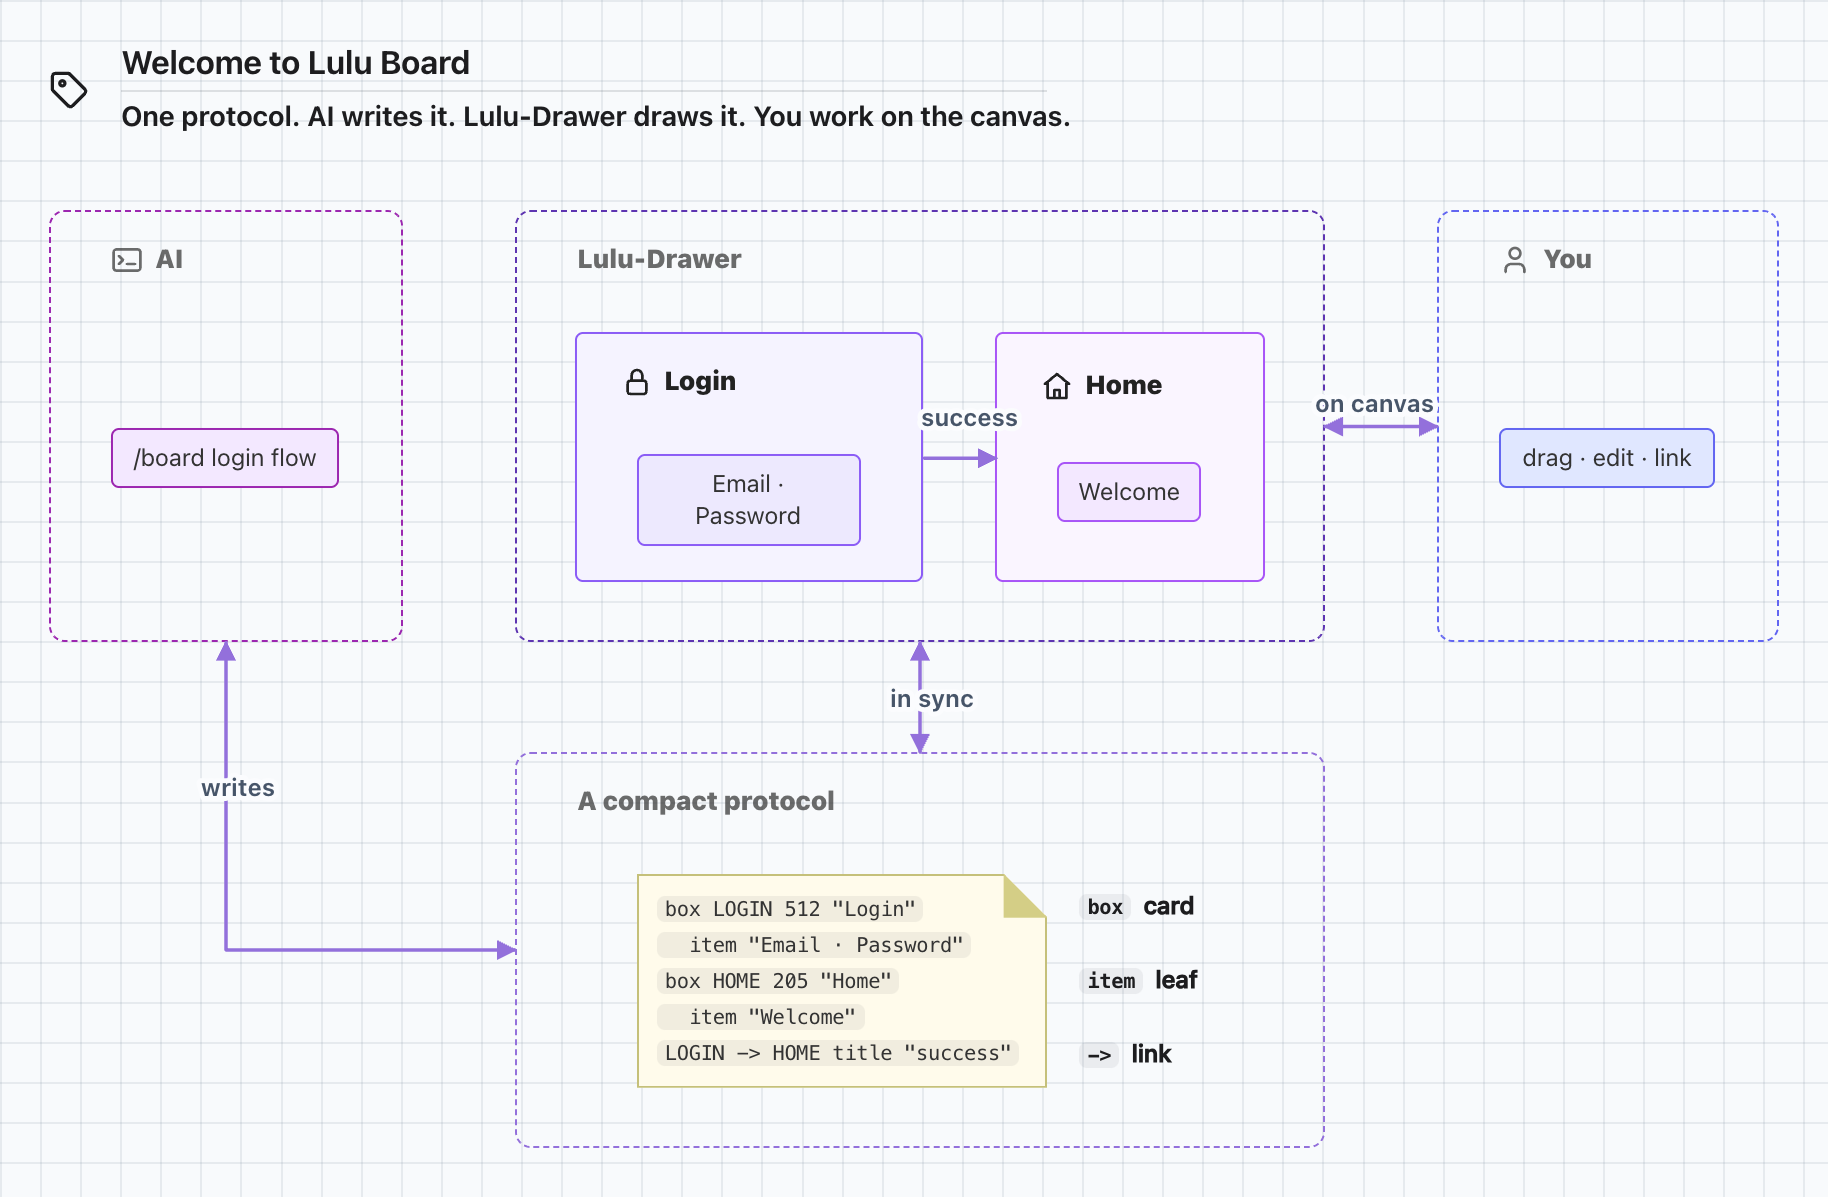
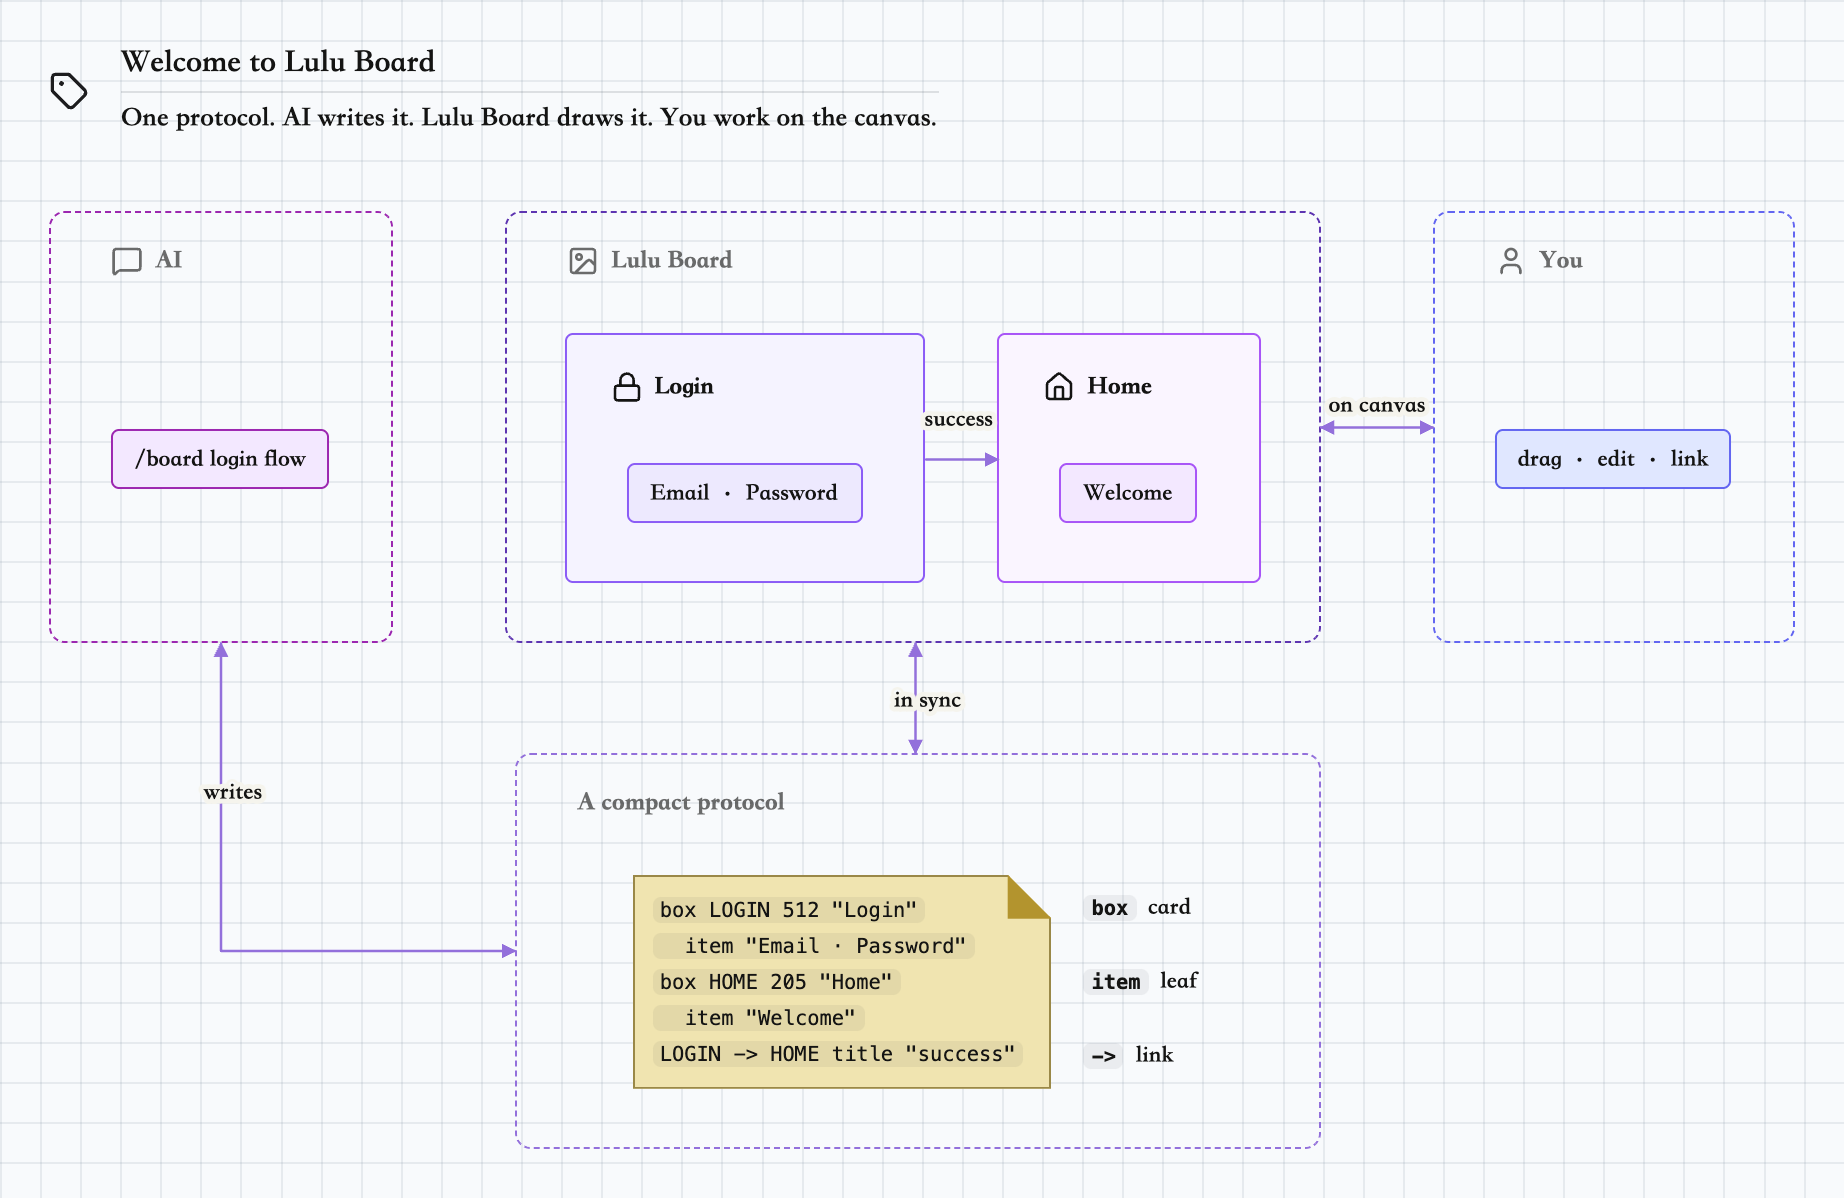
docs(onboarding): refresh the README example to match the built-in board

diff --git a/tests/board/engine/onboarding-template.test.js b/tests/board/engine/onboarding-template.test.js
@@ -32,7 +32,7 @@ const topIds = board.views.map((v) => v.id);
 assert.strictEqual(board.boxes.find((b) => b.id === 'HERO').type, 'layout');
 ['AI', 'CANVAS', 'YOU', 'PROTO'].forEach((id) => assert.strictEqual(board.boxes.find((b) => b.id === id).type, 'container', id + ' container'));
 assert.ok(src.includes('Welcome to Lulu Board'), src);
-assert.ok(src.includes('One protocol. AI writes it. Lulu-Drawer draws it. You work on the canvas.'), src);
+assert.ok(src.includes('One protocol. AI writes it. Lulu Board draws it. You work on the canvas.'), src);
 assert.ok(src.includes('/board login flow'), src);
 assert.ok(src.includes('drag · edit · link'), src);
 assert.ok(src.includes('A compact protocol'), src);
